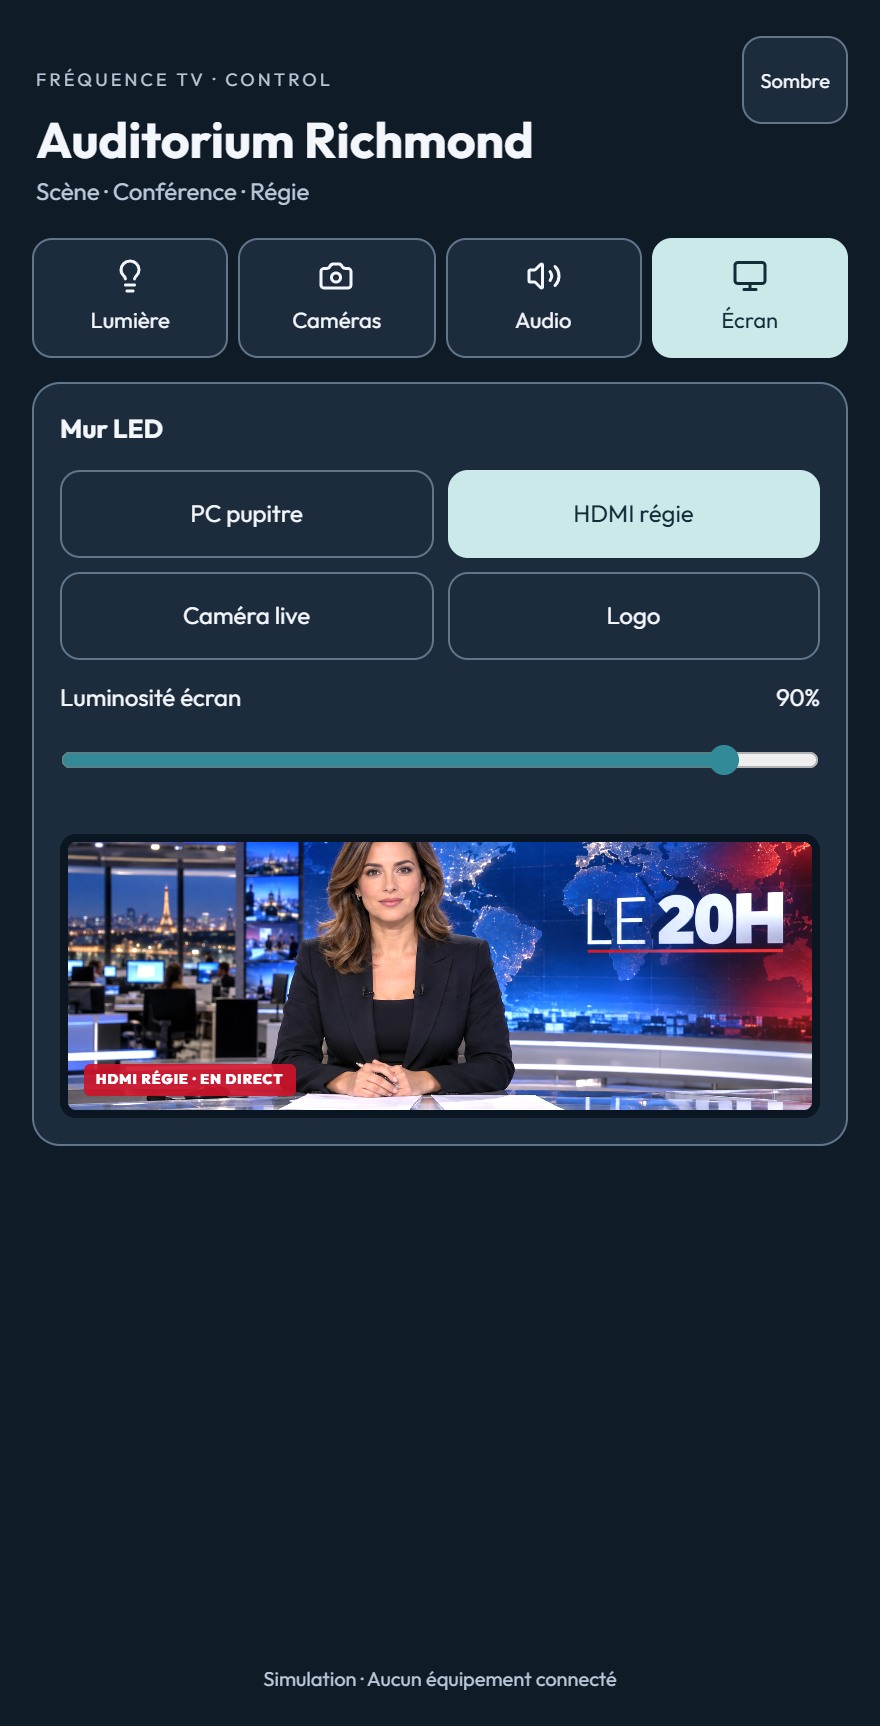
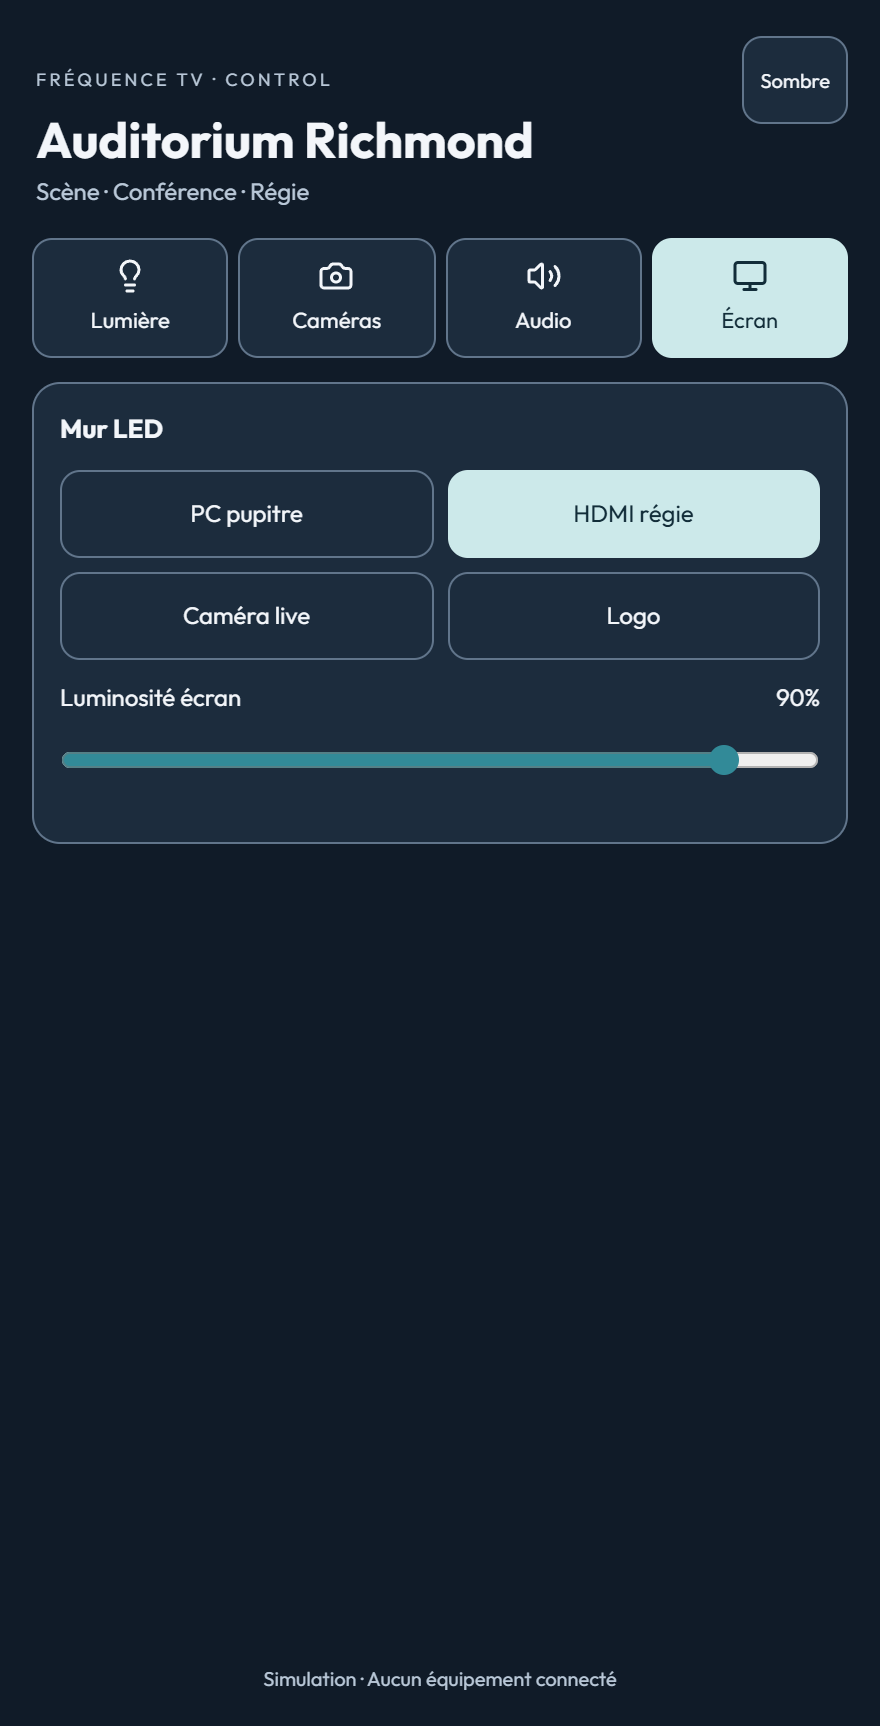
Simplify venue screen controls

Changed region(s): [[0.0614, 0.4606, 0.9205, 0.6448]]

diff --git a/apps/showcase/src/components/simulators/ClubEtoile.jsx b/apps/showcase/src/components/simulators/ClubEtoile.jsx
@@ -81,7 +81,7 @@ export const ClubEtoile = ({ deviceType }) => {
   const isPhone = deviceType === "phone";
   const roomSelect=<label className="club-room-select">Zone<select aria-label="Zone du club" value={clubView==='building'?'building':clubRoom} onChange={e=>{if(e.target.value==='building')setClubView('building');else changeRoom(e.target.value)}}><option value="building">Bâtiment</option>{CLUB_ROOMS.map(r=><option key={r.id} value={r.id}>{r.floor===0?'RDC':`${r.floor}e étage`} · {r.name}</option>)}</select></label>;
   if (isPhone) return <VenuePhone name="L’Étoile Club" subtitle="3 niveaux · 3 grandes salles · DJ" headerExtra={roomSelect} active={activeTab} onTab={setActiveTab} tabs={[["screen","Écran","Monitor"],["hvac","Climat","Wind"],["audio_limit","Audio","Volume2"],["effects","Ambiances","Sparkles"]]}>
-    {activeTab==='screen' && <Card title="Écran DJ"><Choices value={clubScreenSource} onChange={setClubScreenSource} options={[["club_visual","Visuels club"],["regie_hdmi","Journal 20 h"],["cam_feed","Caméra live"],["logo","Logo"]]}/><div className="aud-screen-preview club-screen-preview" data-source={clubScreenSource}>{clubScreenSource==='club_visual'&&<div className="aud-screen-content club-visual-feed"><strong>L’ÉTOILE</strong><span>AFTER DARK</span></div>}{clubScreenSource==='regie_hdmi'&&<div className="aud-screen-content aud-news-feed"><img src="/assets/auditorium-news-presenter.png" alt="Journal de 20 heures"/></div>}{clubScreenSource==='cam_feed'&&<div className="aud-screen-content aud-room-feed"><div className="aud-room-stage"><span>LIVE</span><b>PISTE</b></div><div className="aud-room-seats">{Array.from({length:28},(_,i)=><i key={i}/>)}</div></div>}{clubScreenSource==='logo'&&<div className="aud-screen-content aud-logo-feed"><img src="/assets/logo-frequence-tv-5LGUrtbd.png" alt="Fréquence TV"/></div>}</div></Card>}
+    {activeTab==='screen' && <Card title="Écran DJ"><Choices value={clubScreenSource} onChange={setClubScreenSource} options={[["club_visual","Visuels club"],["regie_hdmi","HDMI régie"],["cam_feed","Caméra live"],["logo","Logo"]]}/></Card>}
     {activeTab==='hvac' && <><Card title="Affluence"><Choices value={crowdDensity} onChange={setCrowdDensity} options={[["cozy","Calme"],["busy","Normal"],["packed","Forte affluence"]]}/></Card><Card title="Ventilation & climatisation"><p className="venue-readout">{targetTemp.toFixed(1)} °C</p><p className="venue-note">Consigne adaptée à l’affluence · CTA en ligne</p><Slider label="Extraction d’air" value={fanSpeed} onChange={setFanSpeed}/></Card><Card title="Fin de service"><button className="venue-toggle" onClick={()=>{setCrowdDensity('cozy');setSmokeActive(false);setStrobeActive(false);setDancefloorVolume(0);setBarVolume(0)}}>Éteindre le son et les effets</button></Card></>}
     {activeTab==='audio_limit' && <><Card title="Capteur acoustique · Simulation"><p className="venue-readout">{currentDb} dB</p><p className="venue-note">{limiterTripped?'Limiteur actif · seuil atteint':'Seuil du simulateur : 105 dB'}</p></Card><Card title="Volume par zone"><Slider label="Piste" value={dancefloorVolume} onChange={setDancefloorVolume}/><Slider label="Bar" value={barVolume} onChange={setBarVolume}/><p className="venue-note">Aucun son n’est diffusé.</p></Card></>}
     {activeTab==='effects' && <><Card title={CLUB_ROOMS.find(r=>r.id===clubRoom).name}><Choices value={roomSettings[clubRoom].scene} options={[["signature","Signature"],["party","Festif"],["calm","Doux"],["off","Éteint"]]} onChange={scene=>setRoomSettings(s=>({...s,[clubRoom]:{...s[clubRoom],scene}}))}/><Slider label="Intensité de la salle" value={roomSettings[clubRoom].level} onChange={level=>setRoomSettings(s=>({...s,[clubRoom]:{...s[clubRoom],level}}))}/></Card><Card title="Effets scéniques"><Toggle label="Mouvement des lyres" value={lyresActive} onChange={setLyresActive}/><Toggle label="Jet de fumée" value={smokeActive} onChange={setSmokeActive}/><Toggle label="Stroboscope" value={strobeActive} onChange={setStrobeActive}/><Slider label="Fréquence programmée" min={1} max={15} unit=" Hz" value={strobeFreq} onChange={setStrobeFreq}/><p className="venue-note">La 3D représente le stroboscope par une lumière continue.</p></Card><Card title="Scènes rapides"><Choices value={strobeActive?'party':'calm'} onChange={v=>{setStrobeActive(v==='party');setSmokeActive(v==='party')}} options={[["party","Soirée"],["calm","Calme"]]}/></Card></>}

diff --git a/apps/showcase/src/components/simulators/AuditoriumRichmond.jsx b/apps/showcase/src/components/simulators/AuditoriumRichmond.jsx
@@ -123,7 +123,7 @@ export const AuditoriumRichmond = ({ deviceType }) => {
     {activeTab==='stage_lights' && <><Card title="Ambiance de la salle"><Choices value={stageScene} onChange={handleStageScene} options={[["speech","Conférence"],["debate","Débat"],["performance","Spectacle"],["off","Éteindre"]]}/></Card><Card title="Circuits d’éclairage">{[['faceSpots','Scène'],['backlights','Contre-jour'],['audienceLights','Public']].map(([id,label])=><Slider key={id} label={label} value={dimmers[id]} onChange={v=>setDimmers(p=>({...p,[id]:v}))}/>)}<label className="venue-note">Couleur de scène<input aria-label="Couleur de scène" type="color" value={lightsColor} onChange={e=>setLightsColor(e.target.value)}/></label></Card></>}
     {activeTab==='ptz_cameras' && <Card title={<span className="aud-card-title"><span>Caméras PTZ</span><button className="aud-record-btn" aria-label="Enregistrement" aria-pressed={isRecording} onClick={()=>setIsRecording(v=>!v)}><i/>REC</button></span>}><Choices value={activeCam} onChange={setActiveCam} options={[["cam1","Caméra 1"],["cam2","Caméra 2"],["cam3","Caméra 3"]]}/><Slider label="Zoom" min={1} max={20} unit="×" value={camZoom} onChange={setCamZoom}/><div className="venue-directions"><span/><button aria-label="Caméra haut" onClick={()=>adjustCam('up')}>{renderIcon('ArrowUp',18)}</button><span/><button aria-label="Caméra gauche" onClick={()=>adjustCam('left')}>{renderIcon('ArrowLeft',18)}</button><button aria-label="Centrer la caméra" onClick={()=>{setCamPan({x:0,y:0});setCamZoom(1)}}>Centre</button><button aria-label="Caméra droite" onClick={()=>adjustCam('right')}>{renderIcon('ArrowRight',18)}</button><span/><button aria-label="Caméra bas" onClick={()=>adjustCam('down')}>{renderIcon('ArrowDown',18)}</button></div><p className="venue-note">Pan {camPan.x}° · Tilt {camPan.y}°</p><AuditoriumCameraPreview activeCam={activeCam} camPan={camPan} camZoom={camZoom} isRecording={isRecording}/></Card>}
     {activeTab==='audio_dante' && <Card title="Mixage audio">{[['lecternMic','Pupitre'],['wirelessMics','Micros sans fil'],['auxInput','Auxiliaire']].map(([id,label])=><div key={id}><Slider label={label} value={audioFaders[id]} onChange={v=>setAudioFaders(p=>({...p,[id]:v}))}/><Toggle label={'Mute · '+label} value={audioMutes[id]} onChange={v=>setAudioMutes(p=>({...p,[id]:v}))}/></div>)}</Card>}
-    {activeTab==='led_wall' && <Card title="Mur LED"><Choices value={ledWallSource} onChange={setLedWallSource} options={[["pc_lectern","PC pupitre"],["regie_hdmi","HDMI régie"],["cam_feed","Caméra live"],["logo","Logo"]]}/><Slider label="Luminosité écran" min={10} value={ledWallBrightness} onChange={setLedWallBrightness}/><AuditoriumScreenPreview source={ledWallSource} brightness={ledWallBrightness}/></Card>}
+    {activeTab==='led_wall' && <Card title="Mur LED"><Choices value={ledWallSource} onChange={setLedWallSource} options={[["pc_lectern","PC pupitre"],["regie_hdmi","HDMI régie"],["cam_feed","Caméra live"],["logo","Logo"]]}/><Slider label="Luminosité écran" min={10} value={ledWallBrightness} onChange={setLedWallBrightness}/></Card>}
   </VenuePhone>;
 
   return (

diff --git a/apps/showcase/public/ftv-luxury/venues/venue.js b/apps/showcase/public/ftv-luxury/venues/venue.js
@@ -134,7 +134,7 @@ if(club){
  for(let i=0;i<20;i++)box('Burgundy velvet wall pleat',-10.85,2,-11+i*1.1,.16,3.7,.6,material(i%2?'#722139':'#4c1c31'));
  for(const x of [-6.3,6.3])box('Disco gold pilaster',x,2.8,-12.6,.2,5.2,.12,material('#d4a447',.25,.75));
  box('Gold screen crown',0,5.8,-12.5,9.5,.1,.1,glow);for(const x of [-4.75,4.75])box('Gold screen frame',x,4,-12.5,.1,3.6,.1,glow);
- sign('STUDIO 77',0,4.05,-12.48,8.7,3.2,'#ffe4a0','#651e39');
+ sign('STUDIO 77',0,4.05,-12.72,8.7,3.2,'#ffe4a0','#651e39');
  }else if(f===1){
  box('Concrete dance slab',0,.08,1,10,.12,12,material('#28323b'));
  for(const x of [-5,5])box('Cyan dance border',x,.16,1,.08,.05,12,glow);
@@ -143,7 +143,7 @@ if(club){
  for(let i=0;i<7;i++)box('Floor circuit line',-3+i, .16,1,.04,.025,11,glow);
  box('Industrial island bar',-8.2,1.05,3,2.5,2.1,7,material('#424b53',.3,.7));
  for(const z of [-1,3,7]){box('Steel lounge bench',8.2,.6,z,2.5,1.2,2.2,M.black);box('Bench neon base',8.2,.12,z,2.5,.08,2.2,glow);}
- sign('NEON FOUNDRY',0,4.05,-12.48,8.7,3.2,'#65f3ff','#111d29');
+ sign('NEON FOUNDRY',0,4.05,-12.72,8.7,3.2,'#65f3ff','#111d29');
  }else{
  cylinder('Circular dance floor',0,.08,1,5.2,.16,material('#2e7069',.28,.3));
  for(const radius of [3.6,4.4,5.15]){const ring=new T.Mesh(new T.TorusGeometry(radius,.045,6,64),glow);ring.name='Circular dance halo';ring.rotation.x=Math.PI/2;ring.position.set(0,.19,1);model.add(ring);}
@@ -153,7 +153,7 @@ if(club){
  for(const z of [-7,0,7]){cylinder('Round ivory lounge',8.2,.45,z,1.5,.8,material('#e5decf'));cylinder('Brass cocktail table',6.7,.85,z,.65,.12,material('#c5a362',.25,.65));}
  box('Jade cocktail bar',-8.3,1.1,2,2.7,2.2,6,material('#378779'));
  for(const x of [-8,8])for(const z of [-8,8]){cylinder('Garden planter',x,.4,z,.6,.8,material('#ded7c7'));for(let k=0;k<4;k++){const leaf=new T.Mesh(new T.SphereGeometry(.65,10,6),material(k%2?'#377b5d':'#549a72'));leaf.name='Tropical greenery';leaf.position.set(x+Math.sin(k)*.35,1.25+k*.25,z+Math.cos(k)*.3);leaf.scale.set(.55,1.1,.7);model.add(leaf);}}
- sign('SKY GARDEN',0,4.05,-12.48,8.7,3.2,'#dff9e9','#2a7068');
+ sign('SKY GARDEN',0,4.05,-12.72,8.7,3.2,'#dff9e9','#2a7068');
  }
  });
  // Service annex beside the single open hall, without partitioning its dance floor.

diff --git a/apps/showcase/README.md b/apps/showcase/README.md
@@ -454,9 +454,9 @@ Enveloppe 3D complète inspirée du bâtiment construit : murs, vitrages, bois, 
 
 ## 26/09/2026 — Auditorium Richmond, lumière et vidéo 2.1.4
 
-Les scènes d'éclairage pilotent désormais quinze projecteurs et seize bandeaux LED dans la salle 3D avec un fondu continu de quatre secondes. La page Caméras regroupe le bouton REC, les choix PTZ, le zoom, le recentrage et une image simulée de l'estrade qui suit les mouvements. La section Captation séparée est supprimée. Le mur LED et son aperçu affichent quatre contenus distincts : présentation climatique, présentatrice fictive du journal de 20 h, vue live de la salle et logo officiel Fréquence TV. Aucun équipement réel n'est commandé.
+Les scènes d'éclairage pilotent désormais quinze projecteurs et seize bandeaux LED dans la salle 3D avec un fondu continu de quatre secondes. La page Caméras regroupe le bouton REC, les choix PTZ, le zoom, le recentrage et une image simulée de l'estrade qui suit les mouvements. La section Captation séparée est supprimée. Les quatre boutons du mur LED pilotent directement la présentation climatique, la présentatrice fictive du journal de 20 h, la vue live de la salle ou le logo officiel Fréquence TV sur l'écran 3D, sans aperçu supplémentaire sous les commandes Smartphone. Aucun équipement réel n'est commandé.
 
-L'Étoile Club sélectionne désormais le bâtiment ou une salle depuis un menu sous le titre. La molette alterne entre la vue complète et la dernière salle avec un déplacement progressif de la caméra. L'ancien onglet Espaces devient Écran et propose quatre sources dont l'image est synchronisée sur l'écran du modèle 3D.
+L'Étoile Club sélectionne désormais le bâtiment ou une salle depuis un menu sous le titre. La molette alterne entre la vue complète et la dernière salle avec un déplacement progressif de la caméra. L'ancien onglet Espaces devient Écran et propose quatre sources directement synchronisées sur l'écran du modèle 3D, sans vignette sous les boutons. Les enseignes Studio 77, Neon Foundry et Sky Garden restent derrière la surface vidéo pour ne plus masquer la source active.
 
 ## 26/09/2026 — Hotel Brassus, éclairages et rideaux 2.1.5
 

diff --git a/docs/CONTEXTE-CODEX.md b/docs/CONTEXTE-CODEX.md
@@ -360,7 +360,7 @@ Enveloppe extérieure inspirée du bâtiment réel ajoutée à la maquette inter
 
 Ajout de quinze faisceaux/projecteurs et seize bandeaux LED synchronisés dans le modèle 3D. Les changements de scène et de couleur utilisent un fondu interpolé de quatre secondes. Sur Smartphone, l'enregistrement est intégré à la carte PTZ ; la prévisualisation d'estrade suit pan, tilt, recentrage et zoom. La page Écran propose quatre simulations cohérentes jusque sur la texture du mur LED 3D : climat, présentatrice fictive du journal de 20 h, salle live et logo officiel Fréquence TV. Build, lint, interactions, absence de défilement interne, contenu 3D et durée du fondu vérifiés localement.
 
-L'Étoile Club utilise un menu de zone sous son titre. La molette choisit uniquement la vue bâtiment ou la dernière salle sélectionnée, avec interpolation de caméra. L'onglet Espaces est remplacé par Écran ; quatre sources vidéo modifient ensemble l'aperçu Smartphone et la texture du modèle 3D.
+L'Étoile Club utilise un menu de zone sous son titre. La molette choisit uniquement la vue bâtiment ou la dernière salle sélectionnée, avec interpolation de caméra. L'onglet Espaces est remplacé par Écran ; quatre sources vidéo modifient directement la texture du modèle 3D. Les aperçus sous les boutons sont supprimés sur les Smartphones du club et de l'auditorium. Les enseignes propres aux salles du club sont placées derrière l'écran vidéo afin de ne pas masquer la source active.
 
 ## 26/09/2026 — Hotel Brassus, éclairages et rideaux 2.1.5
 

diff --git a/docs/verification/2026-09-26-auditorium-richmond/README.md b/docs/verification/2026-09-26-auditorium-richmond/README.md
@@ -1,4 +1,4 @@
-# Auditorium Richmond — recette 2.1.7
+# Auditorium Richmond — recette 2.1.10
 
 Recette locale du 26 septembre 2026 sur Microsoft Edge, route Smartphone et décor 3D.
 
@@ -6,7 +6,7 @@ Recette locale du 26 septembre 2026 sur Microsoft Edge, route Smartphone et déc
 - Lint réussi, avec les avertissements préexistants du dépôt.
 - Page Caméras : absence de la carte Captation, bouton REC intégré, image d'estrade présente.
 - Pan droite : transformation de `translate(0px, 0px)` à `translate(-5.5px, 0px)` ; Centre revient à l'origine.
-- Page Écran : les quatre sources exposent `pc_lectern`, `regie_hdmi`, `cam_feed` et `logo` avec un rendu distinct. HDMI régie affiche une présentatrice fictive du journal de 20 h ; Logo reprend l'asset officiel Fréquence TV. Les deux visuels sont également reportés sur la texture du mur LED 3D.
+- Page Écran : les quatre sources exposent `pc_lectern`, `regie_hdmi`, `cam_feed` et `logo` avec un rendu distinct sur le mur LED 3D. HDMI régie affiche une présentatrice fictive du journal de 20 h ; Logo reprend l'asset officiel Fréquence TV. L'aperçu placé sous les boutons Smartphone est supprimé.
 - Modèle 3D : 16 bandeaux LED, 15 luminaires ponctuels et 15 faisceaux.
 - Fondu Débat : actif à 0,15 s, intermédiaire à 2,16 s et terminé à 4,37 s sur la consigne exacte.
 - Aucun message d'erreur JavaScript pendant la recette.
